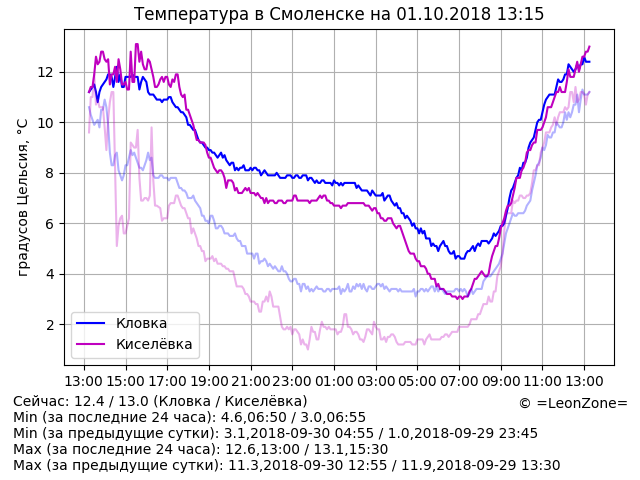
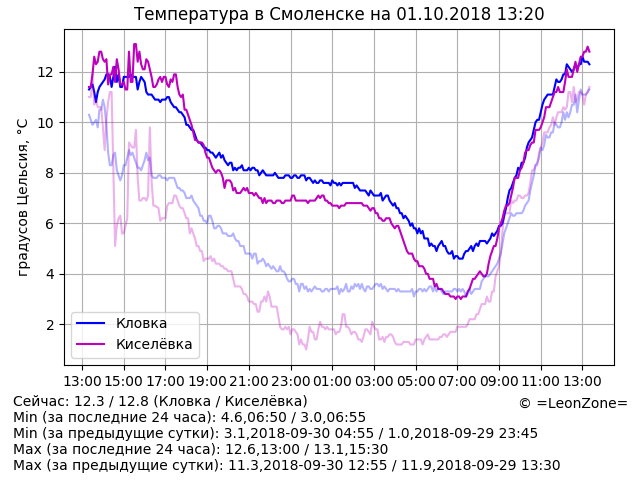
Update data

diff --git a/index.html b/index.html
@@ -14,7 +14,7 @@
 	<p align="center"><script>document.write("<img src=\"graph.png?rnd="+Math.random()+"\" alt=\"Температура в Смоленске\" align=\"middle\" width=\"640\" height=\"480\" />")</script>
 	<p hidden="true">
 <!-- textinfo -->
-Сейчас: 12.4 / 13.0 (Кловка / Киселёвка)
+Сейчас: 12.3 / 12.8 (Кловка / Киселёвка)
 Min (за последние 24 часа): 4.6,06:50 / 3.0,06:55
 Min (за предыдущие сутки): 3.1,2018-09-30 04:55 / 1.0,2018-09-29 23:45
 Max (за последние 24 часа): 12.6,13:00 / 13.1,15:30
